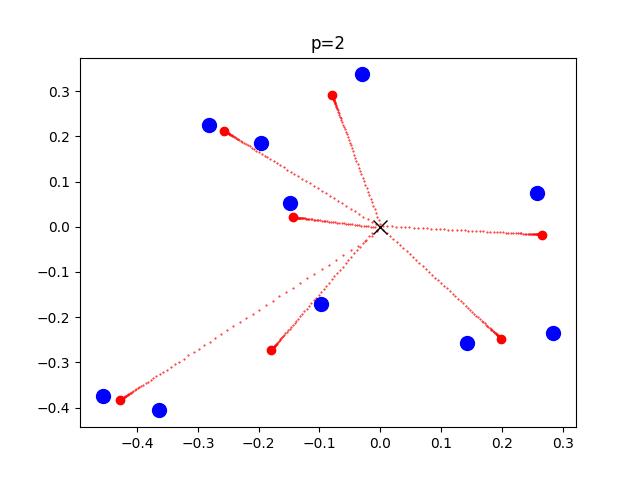
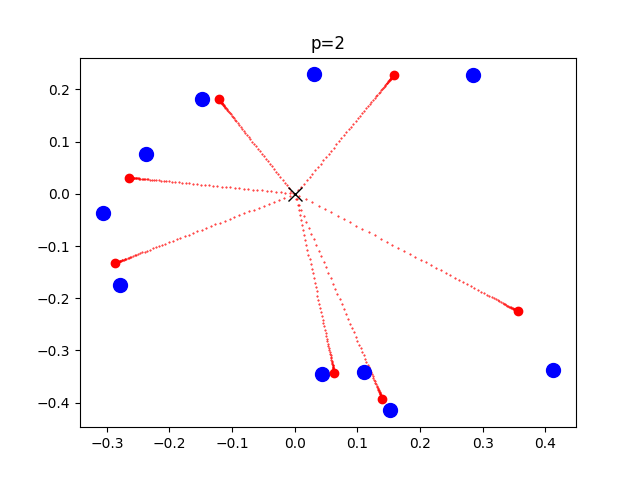
small update of graphics

diff --git a/src/disrete_measures.py b/src/disrete_measures.py
@@ -6,7 +6,7 @@ from matplotlib import pyplot as plt
 import argparse
 from pathlib import Path
 
-
+colors = ['b', 'g', 'r']
 class Generator2d(nn.Module):
     def __init__(self, n_atoms):
         super().__init__()
@@ -24,7 +24,7 @@ def compute_wasserstein(target_sample, gen_sample, q, p):
     T = torch.FloatTensor(T)
     T.requires_grad_(False)
     W = ((M * T).sum())**(1./p)
-    return W
+    return W, T
 
 
 def parse_arguments():
@@ -32,7 +32,7 @@ def parse_arguments():
     parser.add_argument('--target_atoms', type=int, default=10)
     parser.add_argument('--gen_atoms', type=int, default=7)
     parser.add_argument('-q', type=int, default=2)
-    parser.add_argument('-p', type=int, default=1)
+    parser.add_argument('-p', nargs='+', type=int, default=1)
     parser.add_argument('--n_iter', type=int, default=100)
     parser.add_argument('--save_dir', type=str, default='figs')
 
@@ -41,32 +41,58 @@ def parse_arguments():
 
 
 def main(args):
-    target_sample = torch.rand(args.target_atoms, 2) - .5
+    fig, ax = plt.subplots()
+    ax2 = ax.twinx()
+    for i, p in enumerate(args.p):
+
+        target_sample = torch.rand(args.target_atoms, 2) - .5
+        
+        generator = Generator2d(args.gen_atoms)
+        optimizer = torch.optim.SGD(generator.parameters(), lr=0.1)
+
+        samples = []
+        wass = []
+        grad_norms = []
+        for it in range(args.n_iter):
+            gen_sample = generator()
+            #print(generator.theta, gen_sample)
+            samples.append(np.array(gen_sample.detach().cpu().numpy()))
+            W, T = compute_wasserstein(target_sample, gen_sample, args.q, p)
+            optimizer.zero_grad()
+            W.backward()
+            optimizer.step()
+
+            wass.append(W.item())
+            #print(generator.theta.grad)
+            grad_norms.append(torch.norm(generator.theta.grad, p=2).item())
+        samples = np.stack(samples, 0)
+        #print(len(wass))
+
+        #gen_sample = generator().detach().cpu().numpy()
+        target_sample = target_sample.detach().cpu().numpy()
+        fig = plt.figure()
+        for sample in samples[:-1]:
+            plt.scatter(sample[:, 0], sample[:, 1], color='r', s=0.2)
+        plt.scatter(target_sample[:, 0], target_sample[:, 1], color='b', s=100)
+        plt.scatter(samples[-1, :, 0], samples[-1, :, 1], color='r')
+        plt.title(f'p={p}')
+        plt.plot([0], [0], marker='x', markersize=10, color='black')
+        plt.savefig(Path(args.save_dir, f'discrete_p={p}.png'))
+        plt.close()
+
+        #color = 
+        ax.plot(np.arange(args.n_iter), wass, label=f'p={p}', color=colors[i])
+        ax2.plot(np.arange(args.n_iter), grad_norms, linestyle='--', color=colors[i])
+        ax.grid()
+    ax.set_xlabel('Iterations')
+    ax.set_ylabel(r'$W_p(g_{\theta}, \mu)$')
     
-    generator = Generator2d(args.gen_atoms)
-    optimizer = torch.optim.SGD(generator.parameters(), lr=0.1)
+    ax2.yaxis.set_label_position("right")
+    ax2.set_ylabel(r'$\|\nabla_{\theta} W_p(g_{\theta}, \mu)\|_2$')
 
-    samples = []
-    for it in range(args.n_iter):
-        gen_sample = generator()
-        #print(generator.theta, gen_sample)
-        samples.append(np.array(gen_sample.detach().cpu().numpy()))
-        W = compute_wasserstein(target_sample, gen_sample, args.q, args.p)
-        optimizer.zero_grad()
-        W.backward()
-        optimizer.step()
-    samples = np.stack(samples, 0)
-
-    #gen_sample = generator().detach().cpu().numpy()
-    target_sample = target_sample.detach().cpu().numpy()
-    fig = plt.figure()
-    for sample in samples[:-1]:
-        plt.scatter(sample[:, 0], sample[:, 1], color='r', s=0.2)
-    plt.scatter(target_sample[:, 0], target_sample[:, 1], color='b', s=100)
-    plt.scatter(samples[-1, :, 0], samples[-1, :, 1], color='r')
-    plt.title(f'p={args.p}')
-    plt.plot([0], [0], marker='x', markersize=10, color='black')
-    plt.savefig(Path(args.save_dir, f'discrete_p={args.p}.png'))
+    ax.legend()
+    #ax2.legend()
+    plt.savefig(Path(args.save_dir, f'discrete_p={args.p}_evol.png'))
     plt.close()
 
 
